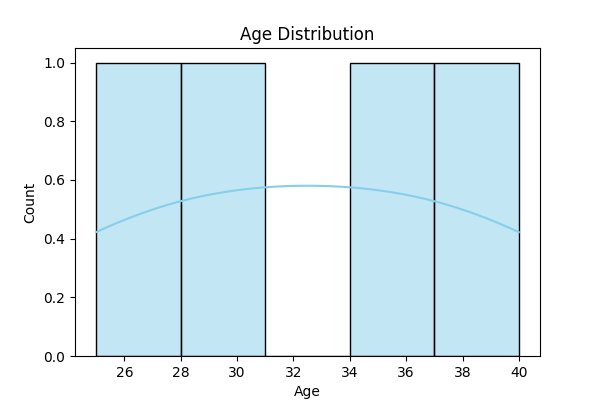
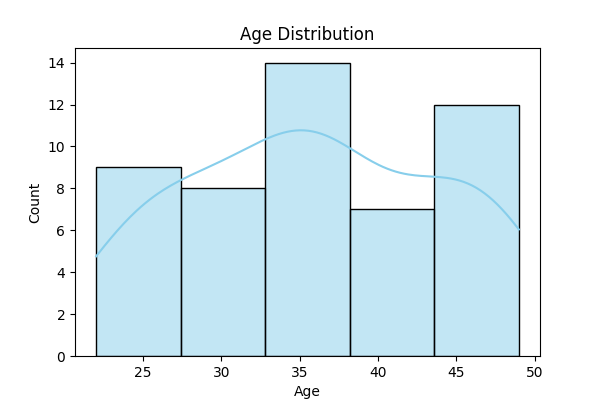
push update

diff --git a/data-handling/eda/load_data.py b/data-handling/eda/load_data.py
@@ -1,11 +1,23 @@
 import pandas as pd
+import numpy as np
+
+np.random.seed(42)
+names = ['Alice', 'Bob', 'Charlie', 'David', 'Eva', 'Frank', 'Grace', 'Henry', 'Irene', 'John']
+departments = ['HR', 'Finance', 'IT', 'Marketing']
 
 # Simulating a CSV dataset (you can replace this with an actual CSV file)
 data = {
+    '''
     'Name': ['Alice', 'Bob', 'Charlie', 'David', 'Eva'],
     'Age': [25, 30, 35, None, 40],
     'Salary': [50000, 60000, None, 80000, 90000],
     'Department': ['HR', 'Finance', 'IT', 'HR', None]
+    '''
+    'Name': np.random.choice(names, 50),
+    'Age': np.random.randint(22, 50, 50),
+    'Salary': np.random.randint(40000, 120000, 50),
+    'Department': np.random.choice(departments, 50),
+    'Experience': np.random.randint(1, 15, 50)
 }
 
 # Saving the simulated data as a CSV file
@@ -15,21 +27,3 @@ df.to_csv('dataset.csv', index=False)
 # Loading the dataset
 df_loaded = pd.read_csv('dataset.csv')
 print("Loaded Dataset:\n", df_loaded)
-
-
-'''
-import numpy as np
-
-# Generate random data
-np.random.seed(42)
-names = ['Alice', 'Bob', 'Charlie', 'David', 'Eva', 'Frank', 'Grace', 'Henry', 'Irene', 'John']
-departments = ['HR', 'Finance', 'IT', 'Marketing']
-
-data = {
-    'Name': np.random.choice(names, 50),
-    'Age': np.random.randint(22, 50, 50),
-    'Salary': np.random.randint(40000, 120000, 50),
-    'Department': np.random.choice(departments, 50),
-    'Experience': np.random.randint(1, 15, 50)
-}
-'''
